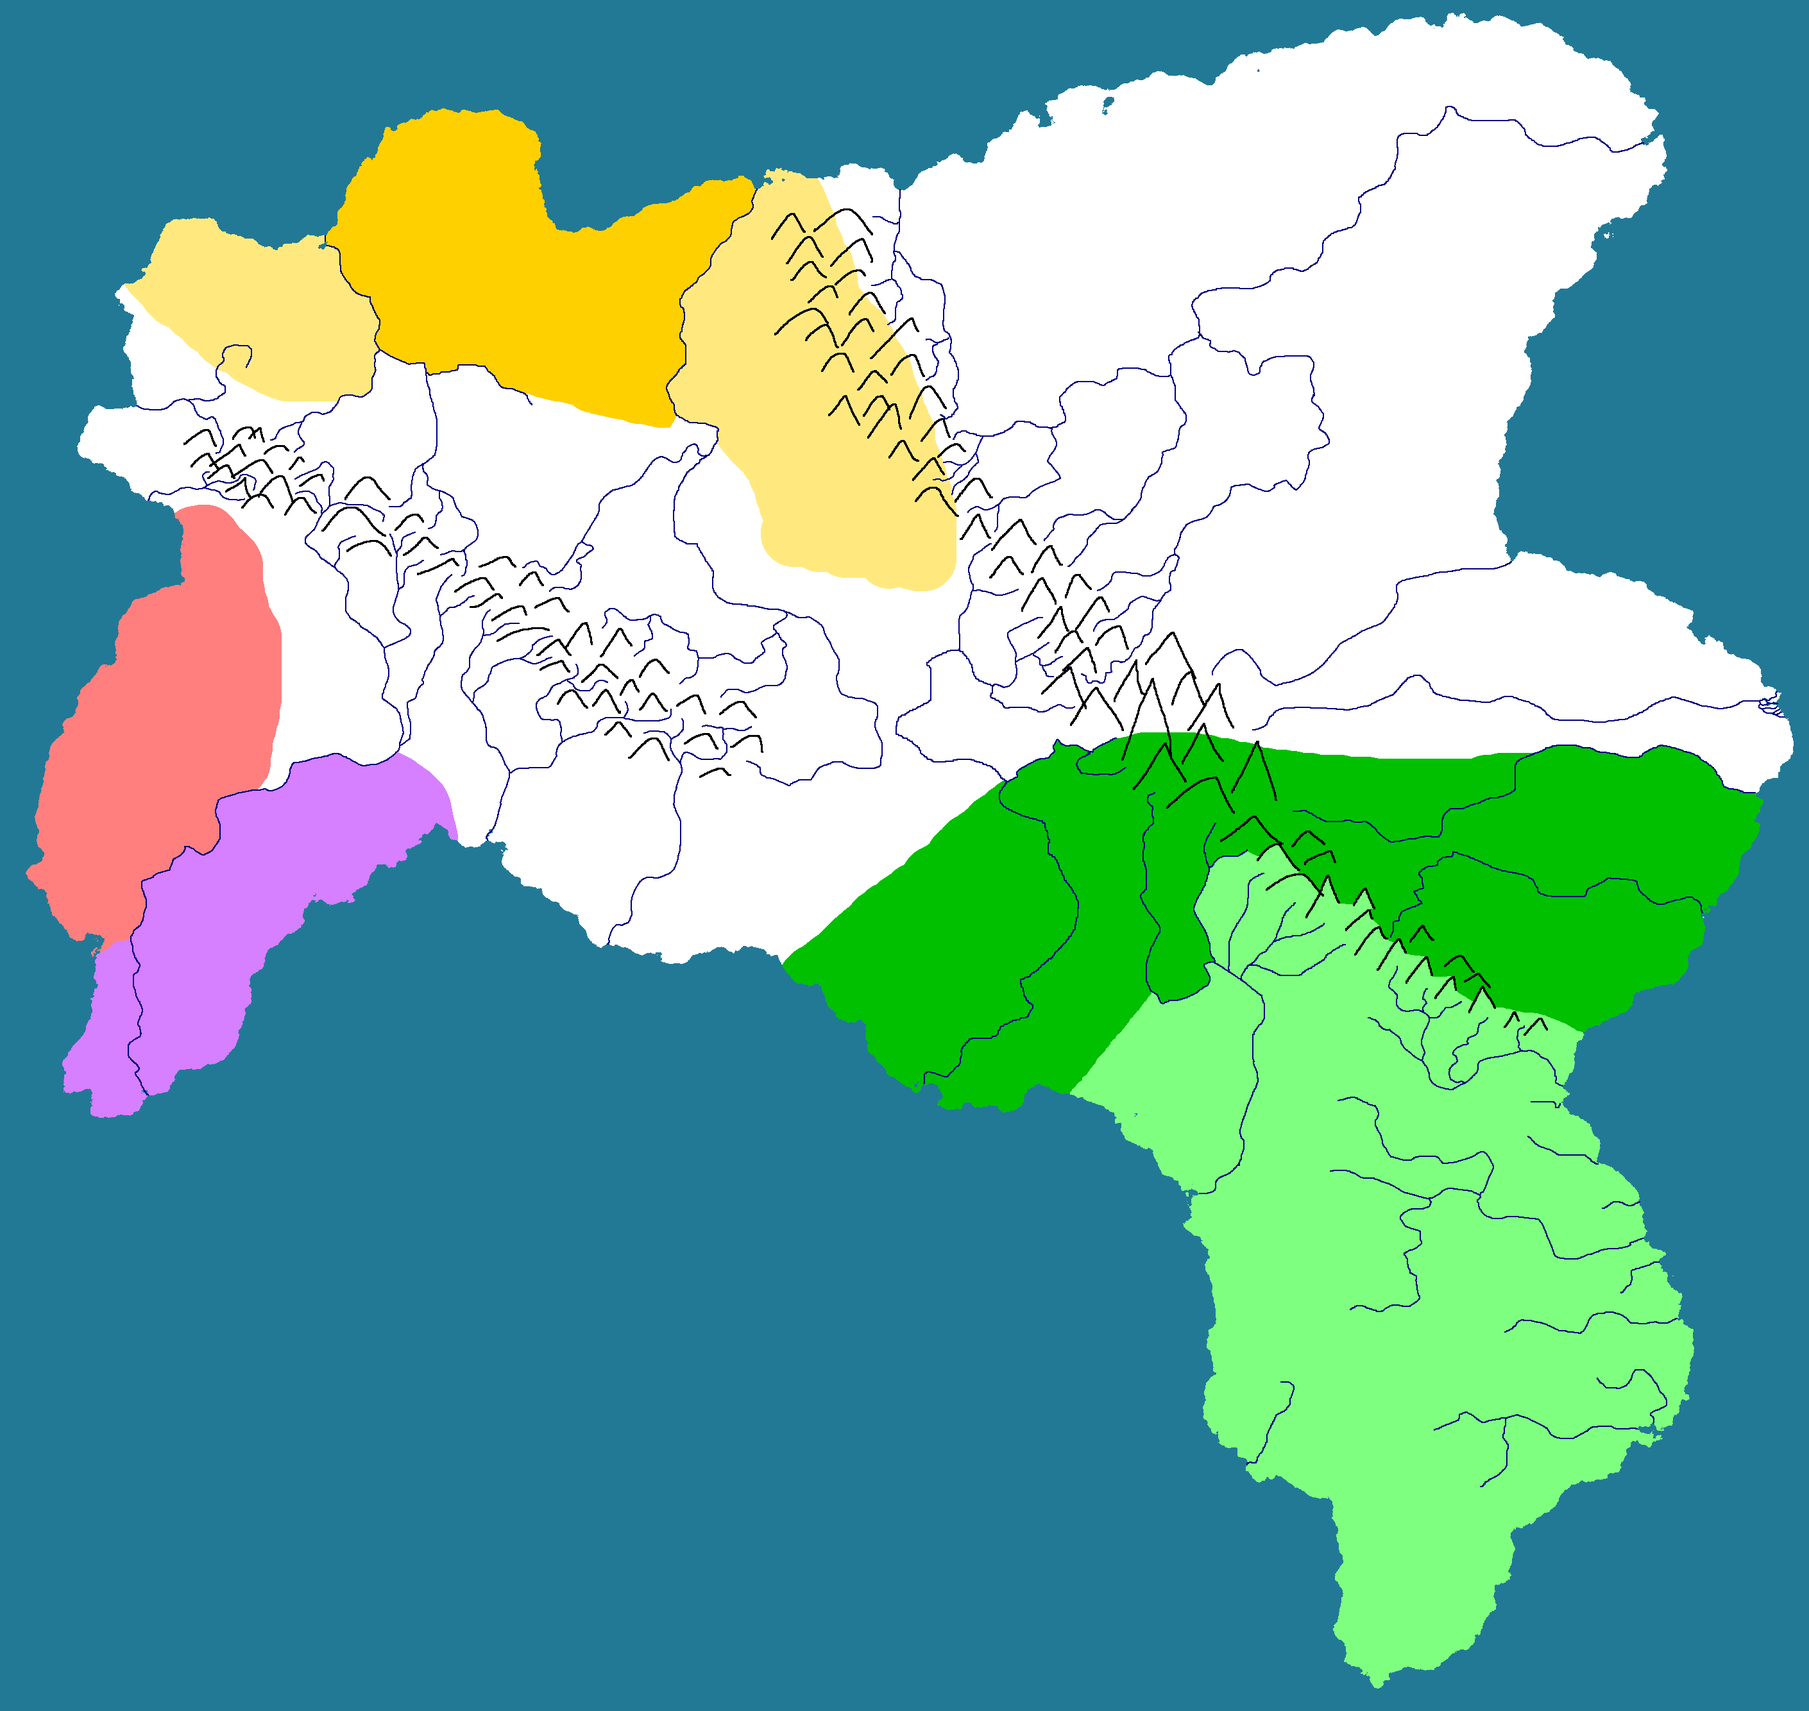
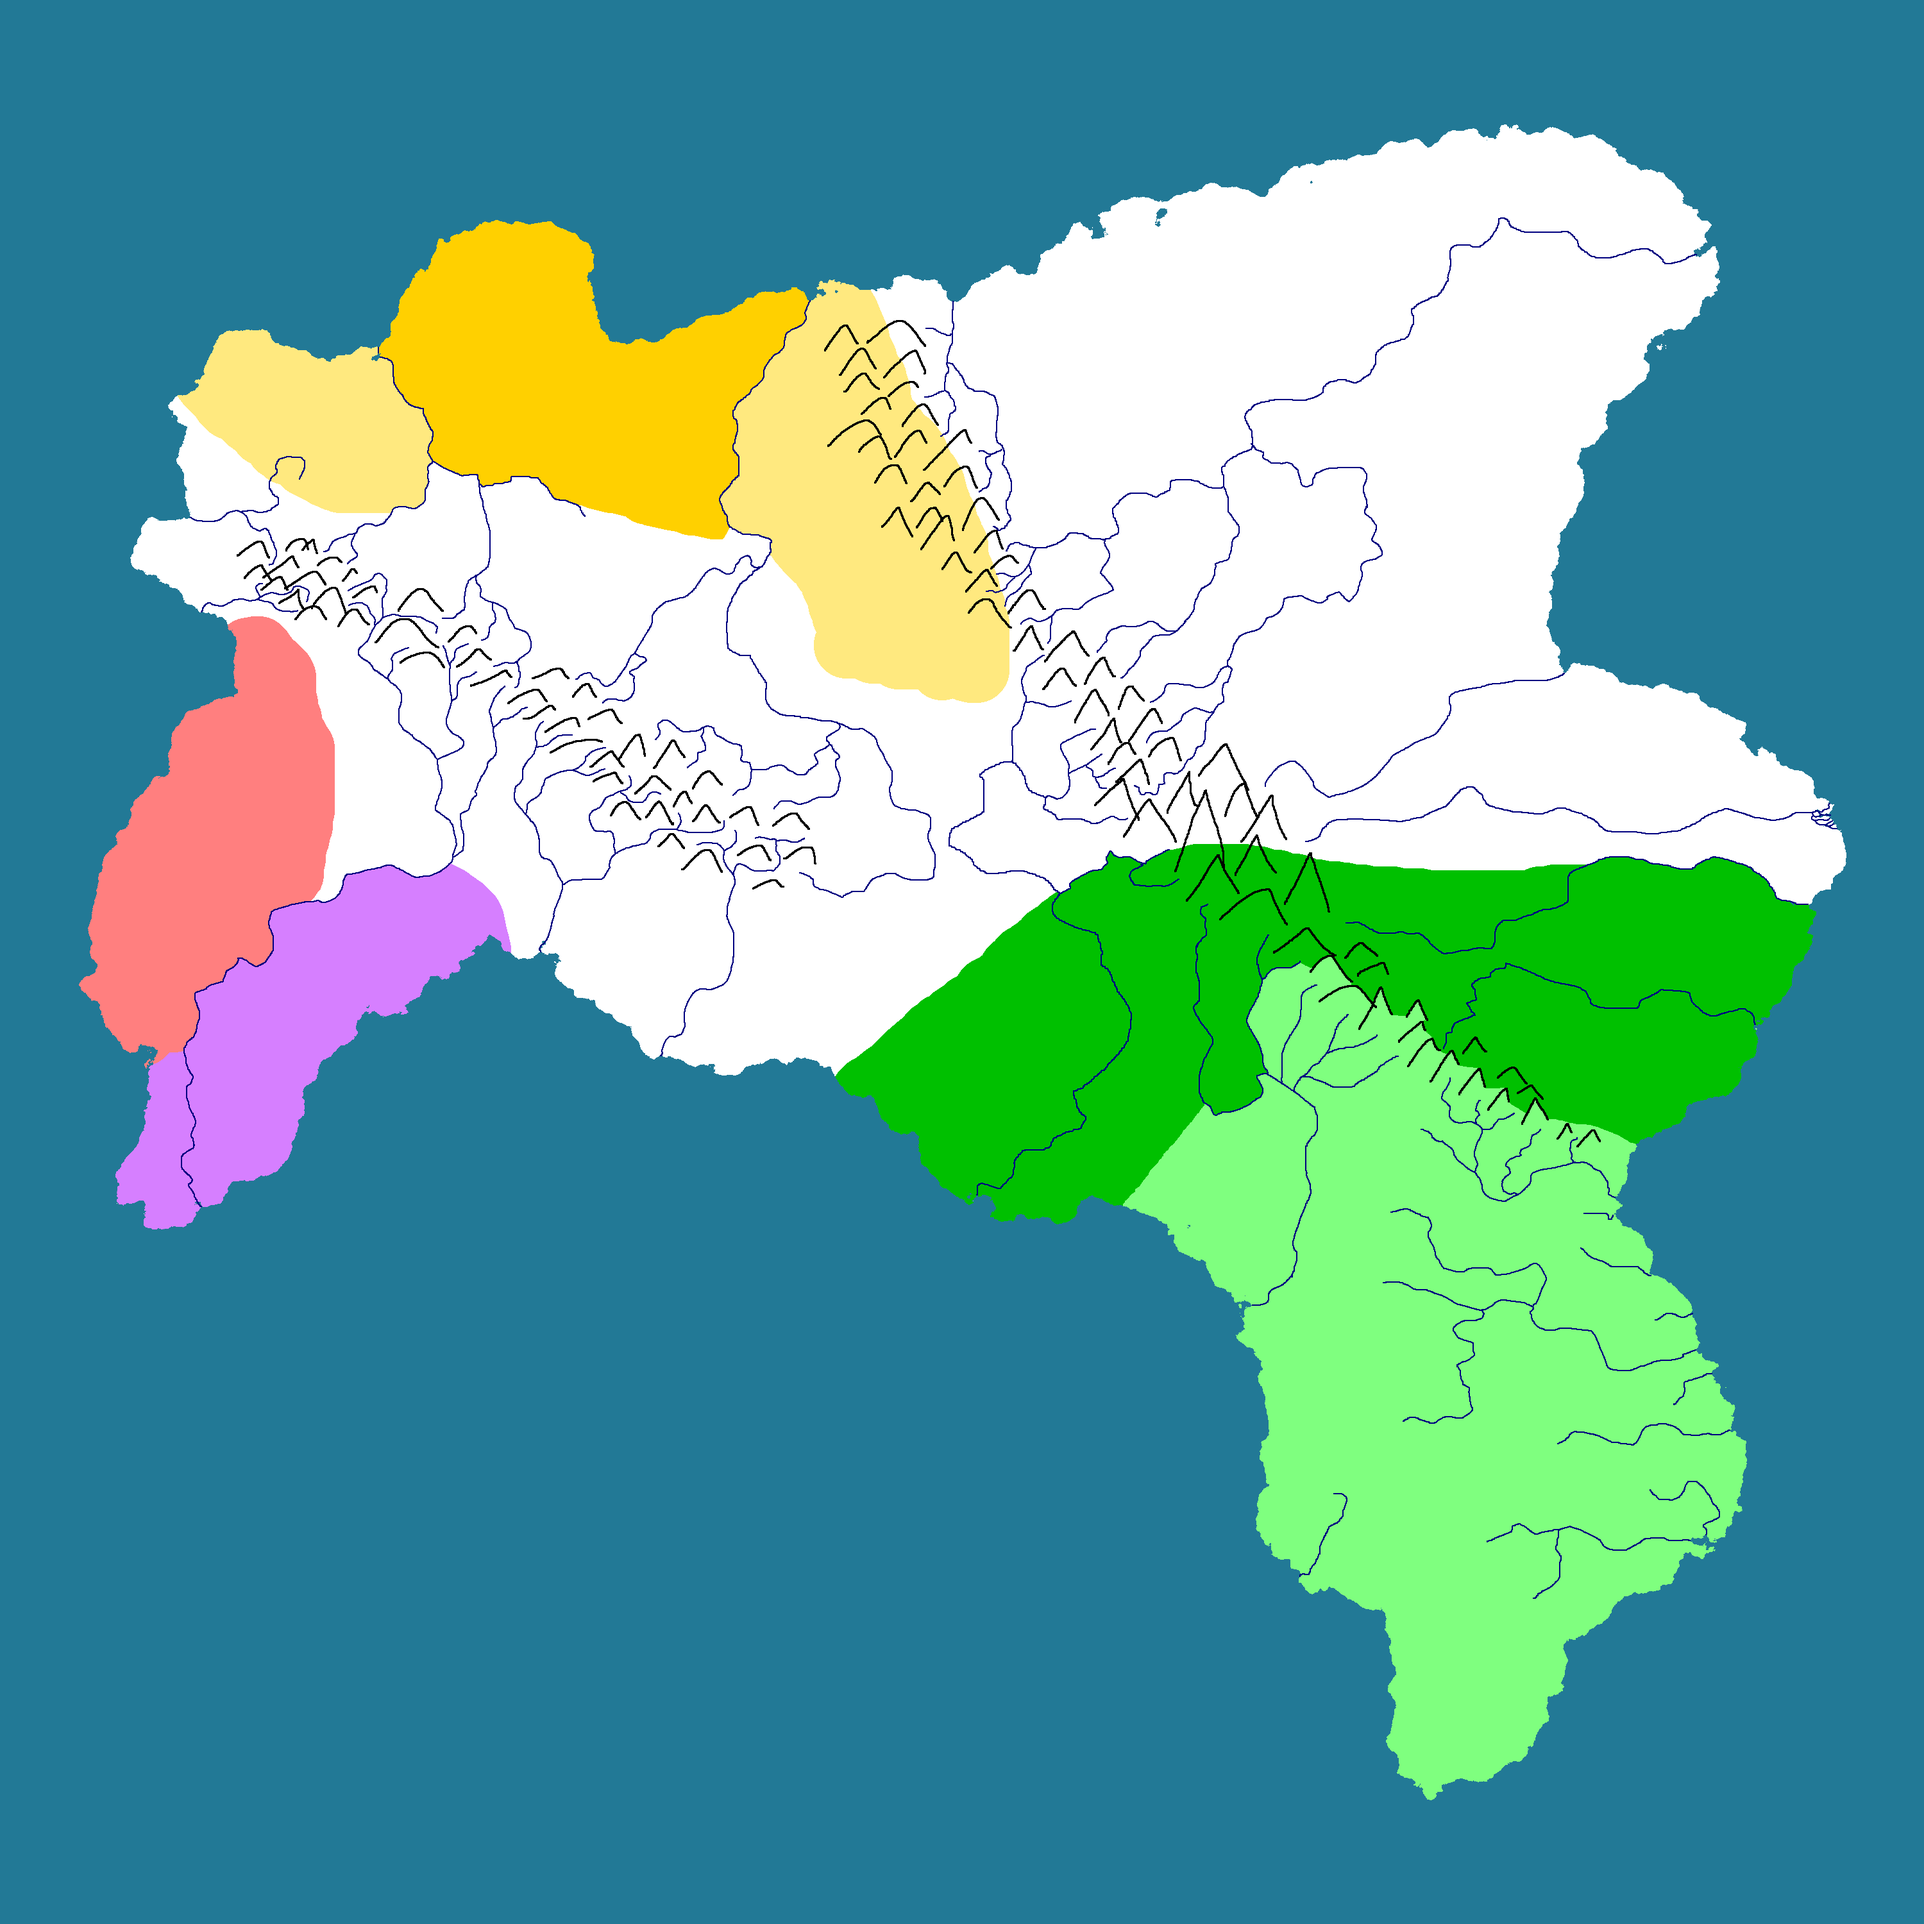
more NEE maps

diff --git a/namei/nee.js b/namei/nee.js
@@ -47,7 +47,10 @@ class MapMode {
 }
 /** @type {MapMode[]} */
 MapMode.mapmodes = [];
+new MapMode('Biomes', '../img/pankair_biomes.png');
 new MapMode('Climate', '../img/pankair.png');
+new MapMode('Crops', '../img/pankair_staple.png');
+new MapMode('Drinks', '../img/pankair_drink.png');
 
 class Feature {
 	constructor(x, y, name, src, importance = nee.orbsize, desc = ''){
@@ -136,7 +139,7 @@ new Feature(1210/3000, 1340/3000, 'Irikar', 'https://upload.wikimedia.org/wikipe
 new Feature(2640/3000, 1560/3000, 'Važcud', 'https://upload.wikimedia.org/wikipedia/commons/2/2a/%E4%B8%B9%E9%9C%9E%E5%B1%B1_04.jpg', 50);
 new Feature(2070/3000, 1630/3000, 'Nekang', 'https://upload.wikimedia.org/wikipedia/commons/8/8b/Tak_province_Burmese_mountains.jpg', 50);
 new Feature(740/3000, 890/3000, 'Półtaś', 'https://upload.wikimedia.org/wikipedia/commons/2/29/Green_and_rolling_countryside_in_northern_Portugal_%2852712607091%29.jpg', 50);
-new Feature(910/3000, 610/3000, 'Porön', 'https://upload.wikimedia.org/wikipedia/commons/9/91/German_Countryside_%2873864589%29.jpeg', 50);
+new Feature(910/3000, 550/3000, 'Porön', 'https://upload.wikimedia.org/wikipedia/commons/9/91/German_Countryside_%2873864589%29.jpeg', 50);
 new Feature(2230/3000, 2800/3000, 'Nizhind', 'https://upload.wikimedia.org/wikipedia/commons/4/46/Lake_Toba%2C_North_Sumatra%2C_Indonesia.jpg', 50);
 // topological features
 new Feature(840/3000, 1070/3000, 'Sinônô', 'https://upload.wikimedia.org/wikipedia/commons/c/cf/Karachay-Cherkessia%2C_Caucasus_Mountains%2C_Abishira-Akhuba%2C_Black_Rock_Ridge_2.jpg', 40,
